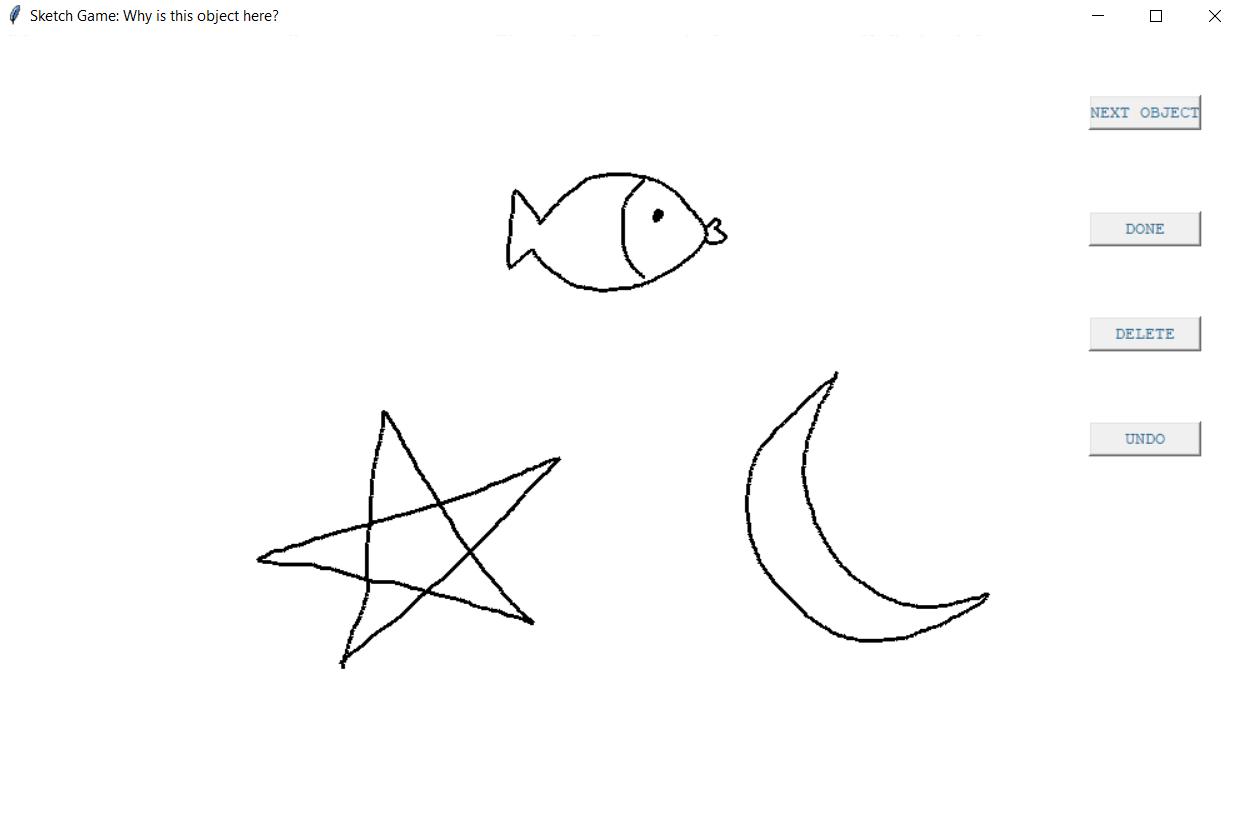
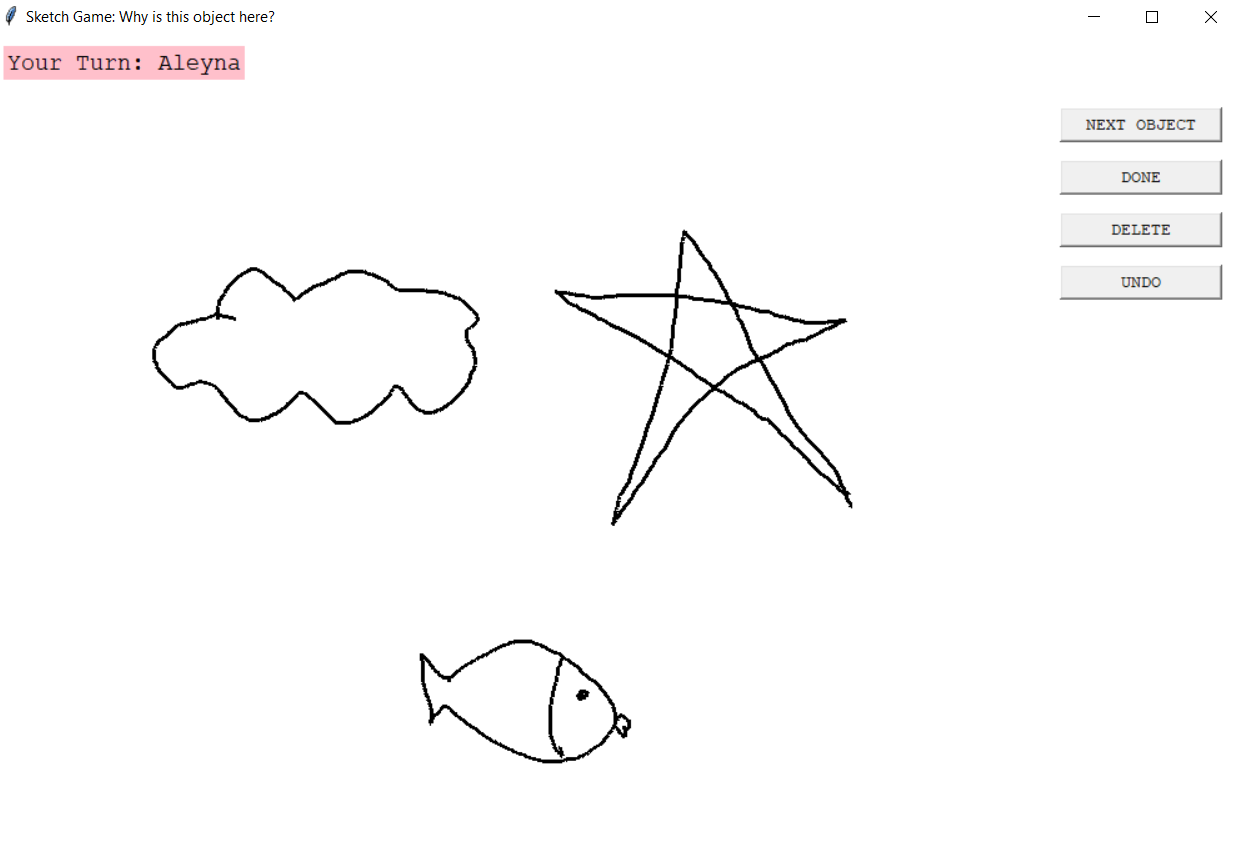
Interface images changed

diff --git a/README.md b/README.md
@@ -10,6 +10,8 @@ Sketching is a natural way of communication for expressing a concept or an idea.
 
 ![Welcome Screen](Images/welcome_screen.PNG)
 
+![Players Screen](Images/players_screen.PNG)
+
 ![Drawing Screen](Images/drawing_screen.PNG)
 
 ![Results Screen](Images/result_screen.PNG)
